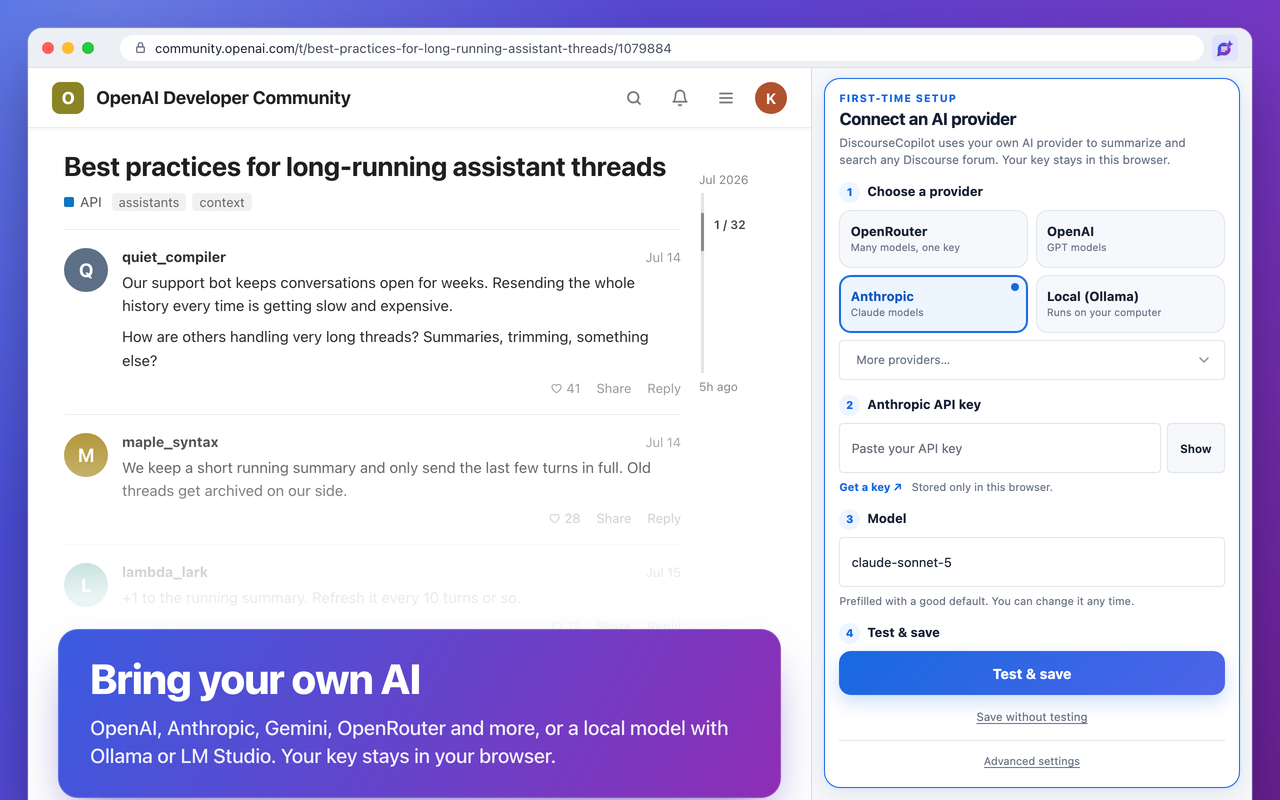
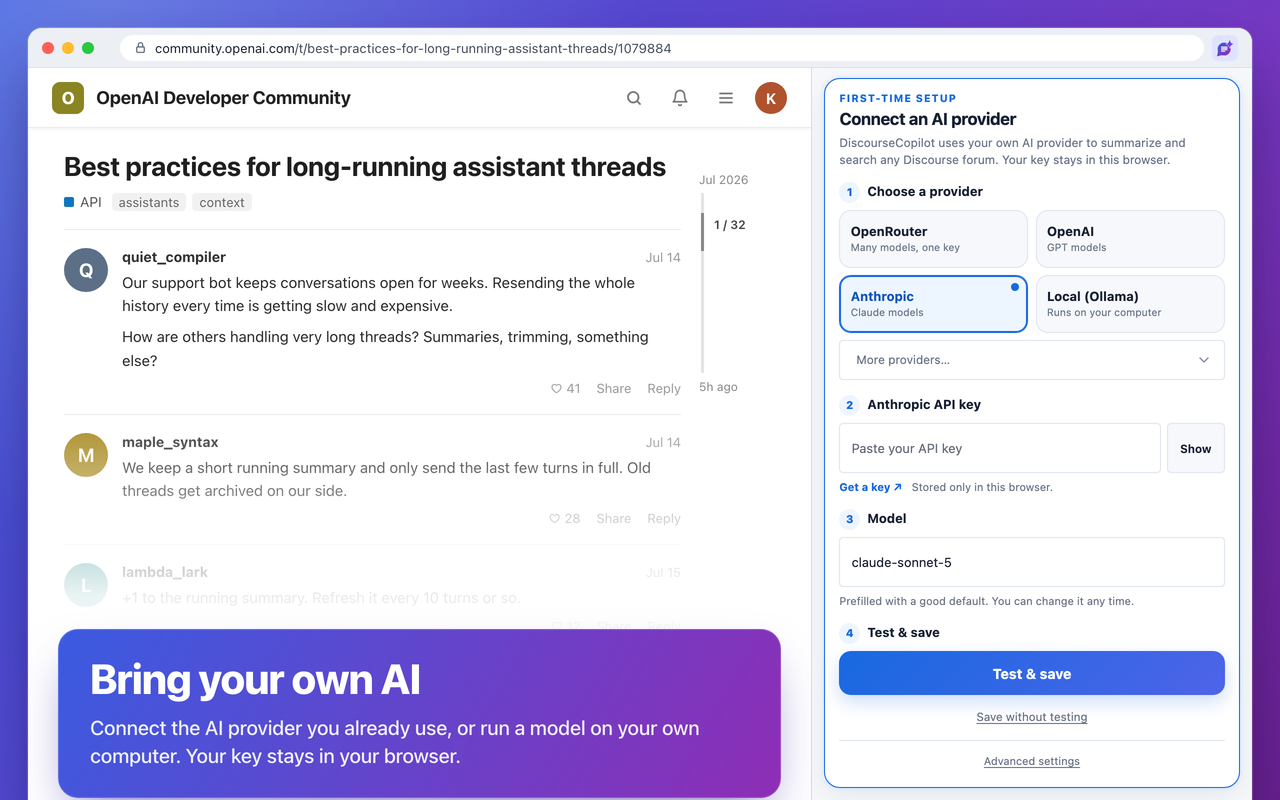
Store listing: remove provider name list flagged as keyword spam
The Chrome Web Store rejected the description for listing every
supported AI provider. Describe provider support generically in the
description and in the fourth screenshot's caption.

Claude-Session: https://claude.ai/code/session_01E8j26XbZdJNx9SZggBmiGa

Changed region(s): [[0.0625, 0.9062, 0.5625, 0.9688]]

diff --git a/store-assets/LISTING.md b/store-assets/LISTING.md
@@ -8,18 +8,20 @@ AI summaries and research copilot for any Discourse forum
 
 ## Description
 
+Kept short and free of brand-name lists: the Chrome Web Store's keyword-spam check rejected an earlier version that listed every supported AI provider in one line. Keep provider names out of the description and screenshot captions (the README can list them).
+
 DiscourseCopilot helps you catch up on any Discourse forum in seconds, right from Chrome's side panel.
 
 • Summarize long topics: the original post, how people responded, and the key takeaways, even on topics with thousands of replies.
 • Ask follow-up questions about the topic you're reading.
-• Ask the forum — searches the forum, reads the most relevant discussions, and answers with numbered sources you can click.
-• Works on any Discourse forum — meta.discourse.org, community.openai.com, or your own community. One click enables each forum you use; there's no access to other websites.
-• Bring your own AI — OpenRouter, OpenAI, Anthropic (Claude), Google Gemini, Groq, xAI, DeepSeek, or a local model with Ollama or LM Studio.
-• Your language — answers follow the language of the discussion, or one you choose.
-• Organized history — saved summaries, chats and answers, grouped by forum. Keep the ones you need.
+• Ask the forum: it searches the forum, reads the most relevant discussions, and answers with numbered sources you can click.
+• Works on any forum built with Discourse, including your own community. One click allows each forum you use; there's no access to other websites.
+• Bring your own AI: connect the AI provider you already use with your own API key, or run a model on your own computer.
+• Your language: answers follow the language of the discussion, or one you choose.
+• Organized history: saved summaries, chats and answers, grouped by forum. Keep the ones you need.
 • Light and dark mode.
 
-Private by design: your API key and history stay in your browser. Forum content is sent only to the AI provider you choose. DiscourseCopilot reads only the forums you enable, and you can remove access anytime in Settings. No accounts, no analytics, no tracking.
+Private by design: your API key and history stay in your browser. Forum content is sent only to the AI provider you choose. DiscourseCopilot reads only the forums you allow, and you can remove access anytime in Settings. No accounts, no analytics, no tracking.
 
 Free and open source (Apache-2.0): https://github.com/kccarlos/DiscourseCopilot
 
